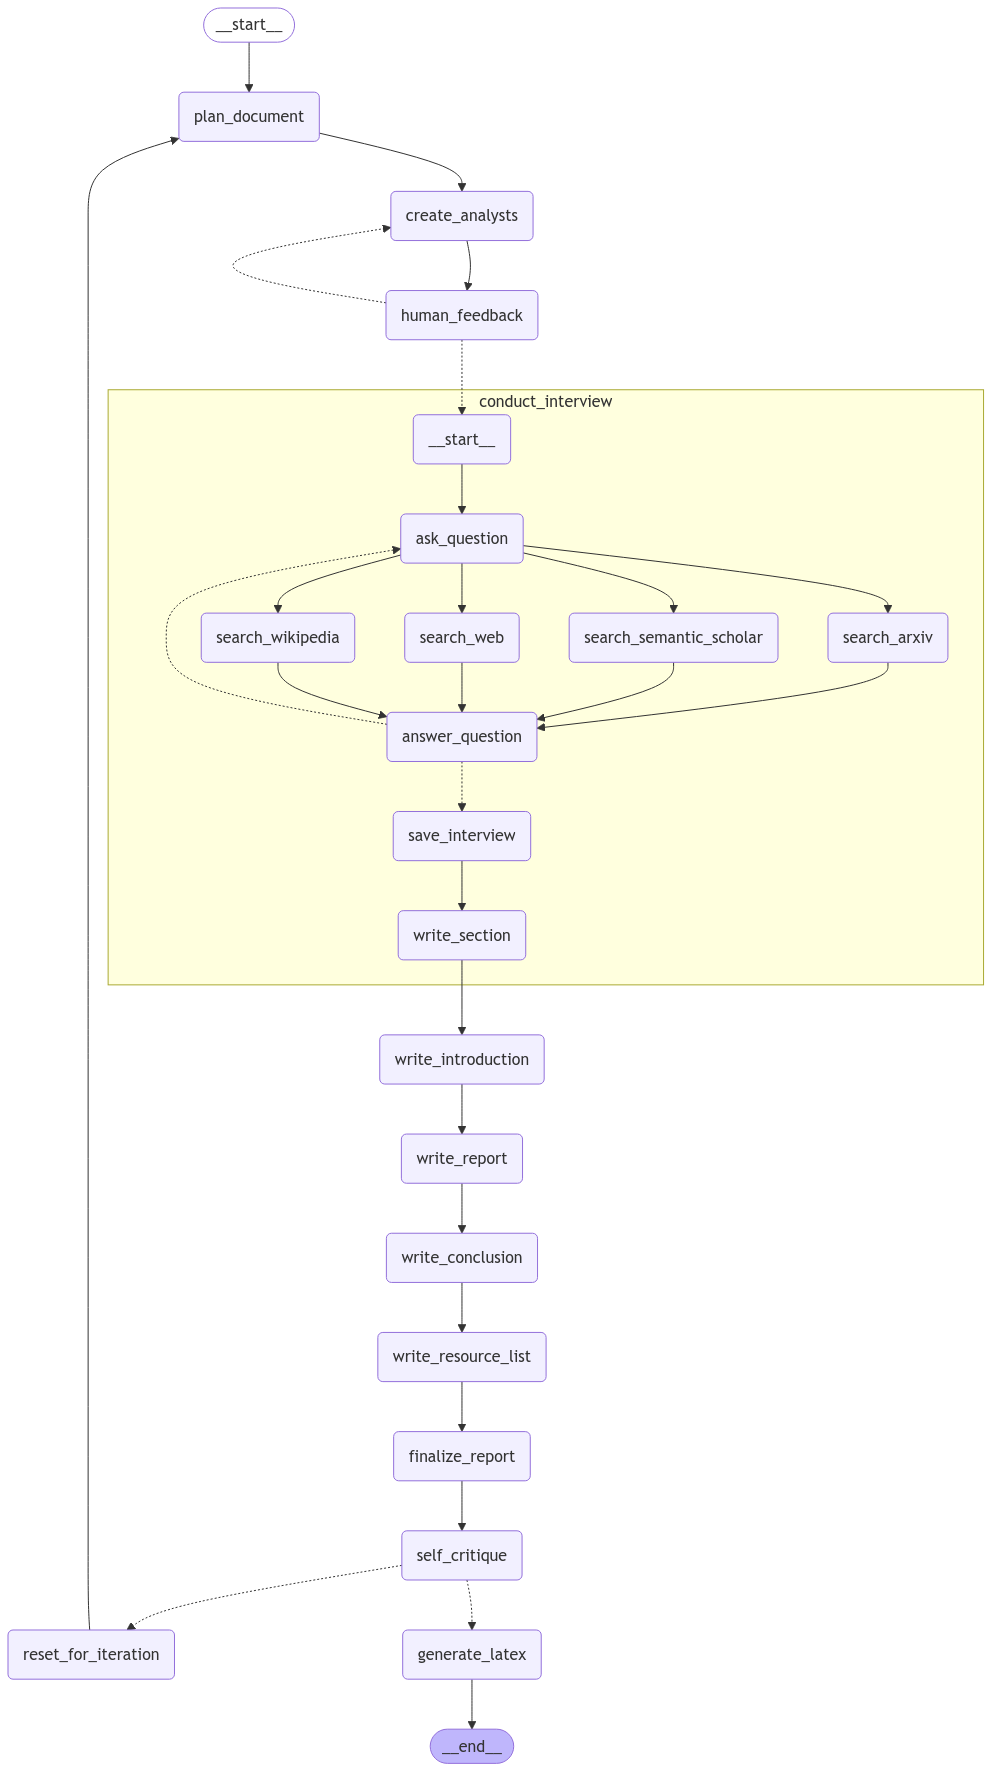
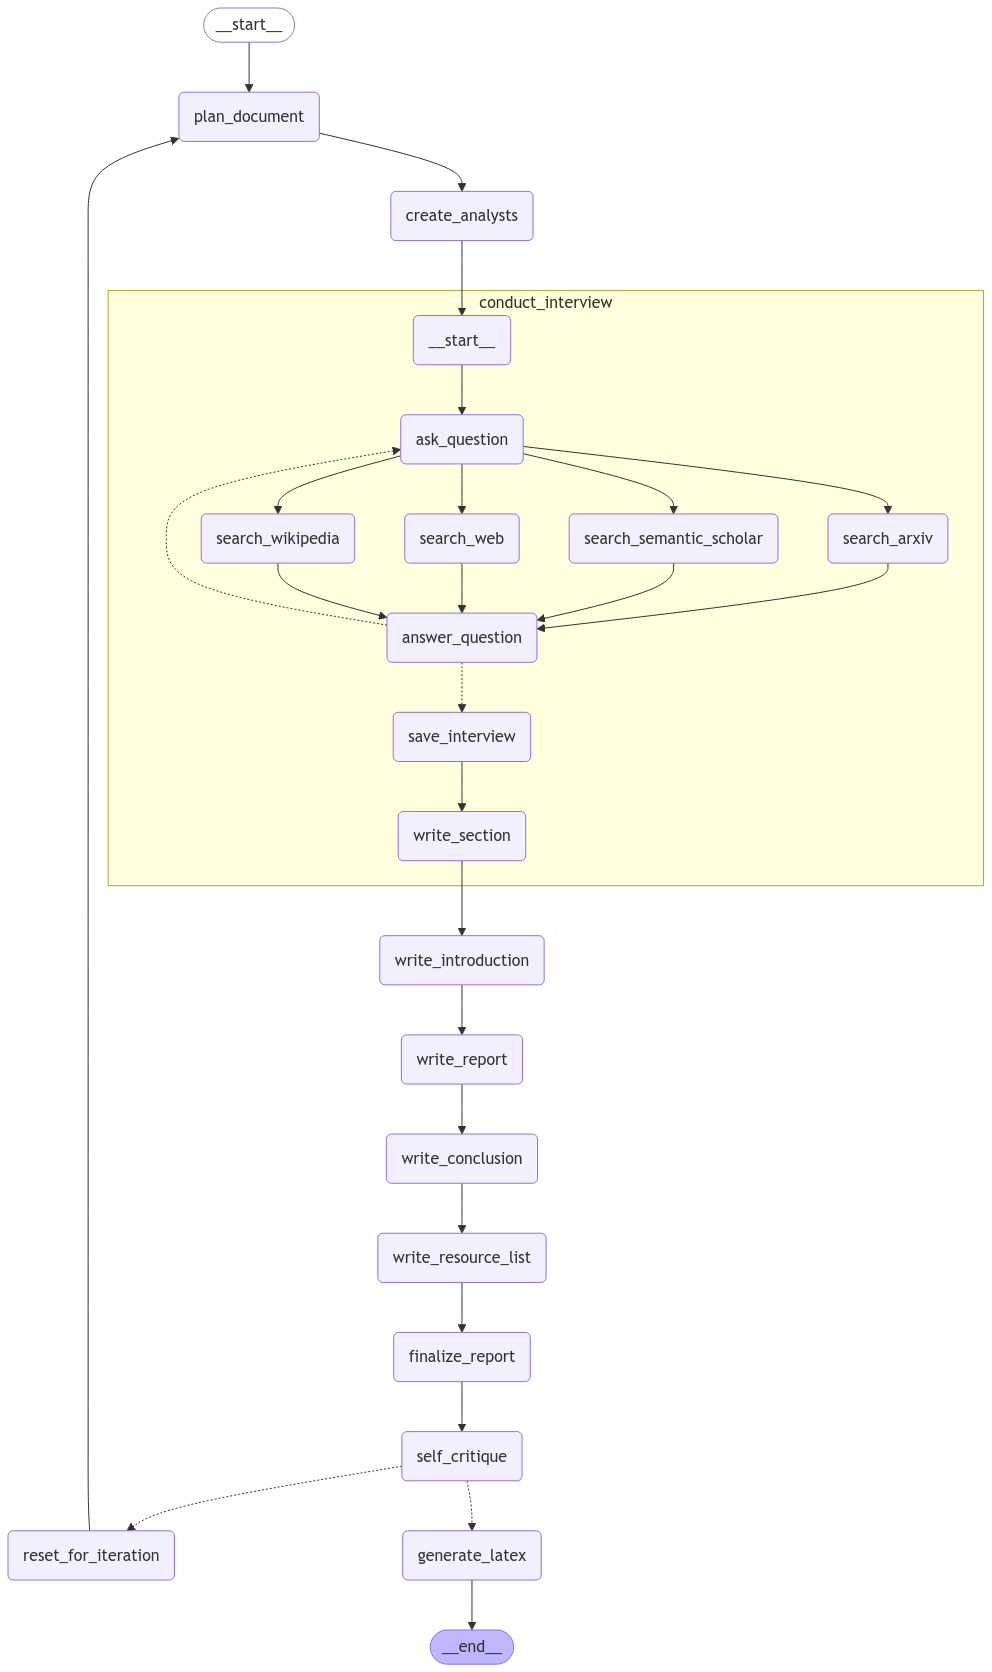
Fix all smart_print used without HumanLLMMonitor. add cache management for the searches. Withdraw the human feedback in the graph.

Changed region(s): [[0.0938, 0.0933, 1.0, 1.0], [0.0312, 0.9019, 0.1875, 0.9641], [0.1562, 0.0, 0.3125, 0.0933]]

diff --git a/demo.py b/demo.py
@@ -200,18 +200,18 @@ class Analyst(BaseModel):
     affiliation: str = Field(
         description="Primary affiliation of the analyst.",
     )
-    name: str = Field(
-        description="Name of the analyst."
-    )
+    # name: str = Field(
+    #     description="Name of the analyst."
+    # )
     role: str = Field(
-        description="Role of the analyst in the context of the topic.",
+        description="Role/expertise of the analyst in the context of the topic.",
     )
     description: str = Field(
         description="Description of the analyst focus, concerns, and motives.",
     )
     @property
     def persona(self) -> str:
-        return f"Name: {self.name}\nRole: {self.role}\nAffiliation: {self.affiliation}\nDescription: {self.description}\n"
+        return f"Role: {self.role}\nAffiliation: {self.affiliation}\nDescription: {self.description}\n"
 
 class Perspectives(BaseModel):
     analysts: List[Analyst] = Field(
@@ -238,7 +238,7 @@ def create_analysts(state: GenerateAnalystsState):
                 "  - 'FEEDBACK': any editorial feedback,\n"
                 "  - 'MAX_ANALYSTS': the maximum number of analysts to generate.\n\n"
                 "Review the topic and feedback, identify the top themes, and assign one analyst per theme. "
-                "Each analyst must have the following fields: name (string), role (string), affiliation (string), and description (string)."
+                "Each analyst must have the following fields: role (string), affiliation (string), and description (string)."
             )
     topic = state['topic']
     max_analysts = state['max_analysts']
@@ -270,7 +270,6 @@ def create_analysts(state: GenerateAnalystsState):
         else:
             generated_analysts = [
                 Analyst(
-                    name=f"Analyst {i+1}",
                     role=f"Research Specialist {i+1}",
                     affiliation="Research Institute",
                     description=f"Analyzing aspects of {topic}"
@@ -286,7 +285,6 @@ def create_analysts(state: GenerateAnalystsState):
         print(f"Error generating analysts: {e}")
         default_analysts = [
             Analyst(
-                name=f"Analyst {i+1}",
                 role=f"Research Specialist {i+1}",
                 affiliation="Research Institute",
                 description=f"Analyzing aspects of {topic}"
@@ -294,10 +292,10 @@ def create_analysts(state: GenerateAnalystsState):
         ]
         return {"analysts": default_analysts}
 
-def human_feedback(state: GenerateAnalystsState):
-    """No-op node that can be interrupted for human feedback."""
-    print("Human_feedback")
-    pass
+# def human_feedback(state: GenerateAnalystsState):
+#     """No-op node that can be interrupted for human feedback."""
+#     print("Human_feedback")
+#     pass
 
 def should_continue(state: GenerateAnalystsState):
     print("Should_continue")
@@ -337,30 +335,27 @@ def generate_question(state: InterviewState):
     messages = state["messages"]
     system_message = question_instructions.format(goals=analyst.persona)
     question_answer = llm_custom.invoke([SystemMessage(content=system_message)] + messages)
-    smart_print(message=question_answer.content if isinstance(question_answer, AIMessage) else question_answer, agent_name="Generate Question", message_type="NEW inference result recieved")
+    smart_print(message=question_answer.content if isinstance(question_answer, AIMessage) else question_answer, agent_name="Generate Question", message_type="NEW inference result recieved", column_id=0, column_max=1)
     return {"messages": [question_answer]}
 
-def search_web(state: InterviewState):
-    print("Search_web")
+
+@load_from_pickle
+@save_to_pickle
+def search_llm_query(search_instructions : SystemMessage, user_message : str):
+    return llm_custom.with_structured_output(SearchQuery).invoke([search_instructions] + user_message)
+
+@load_from_pickle
+@save_to_pickle
+def search_web_query_get(search_query):
     OPENALEX_API_URL = "https://api.openalex.org/works"
-    structured_llm = llm_custom.with_structured_output(SearchQuery)
-    if "search_instructions" not in state:
-        state["search_instructions"] = SystemMessage(content=(
-            "You will be given a conversation between an analyst and an expert. "
-            "Your goal is to generate a well-structured query for retrieval. "
-            "Analyze the conversation—especially the final question—and convert it into a search query."
-        ))
-    search_instructions = state["search_instructions"]
-    search_query = structured_llm.invoke([search_instructions] + state['messages'])
     params = {
-        "search": search_query.search_query,
+        "search": search_query.search_query,  # La chaîne de recherche générée par le LLM.
         "filter": "is_paratext:false",
         "sort": "relevance_score:desc",
         "per_page": 5
     }
     response = requests.get(OPENALEX_API_URL, params=params)
     search_docs = []
-    "Testing a research assistant framework in Toulon M2 Master's program: curriculum design, pedagogical strategies, diverse learning needs, collaboration between researchers and educators, student dynamics, dissemination of findings."
 
     if response.status_code == 200:
         data = response.json()
@@ -377,40 +372,32 @@ def search_web(state: InterviewState):
             })
     else:
         print(f"Error retrieving data from OpenAlex: {response.status_code}")
-    formatted_search_docs = "\n\n---\n\n".join(
-        [
-            f'<Document title="{doc["title"]}" href="{doc["url"]}">\nAuthors: {doc["authors"]}\n\nAbstract: {doc["abstract"]}\n</Document>'
-            for doc in search_docs
-        ]
-    )
-    smart_print(message=formatted_search_docs, agent_name="Search Web", message_type="NEW inference result recieved")
-    return {"context": [formatted_search_docs]}
 
-def search_arxiv(state: InterviewState):
-    print("Search_arxiv")
-    import xml.etree.ElementTree as ET
+    # Formatage des résultats pour affichage.
+    formatted_search_docs = "\n\n---\n\n".join([
+        '<Document title="' + doc["title"] + '" href="' + doc["url"] + '">\nAuthors:' + doc["authors"] + '\n\nAbstract:' + doc["abstract"] + '\n</Document>'
+        for doc in search_docs
+    ])
+    return formatted_search_docs
 
-    ARXIV_API_URL = "http://export.arxiv.org/api/query"
-
-    # On suppose que llm_custom, SearchQuery et SystemMessage sont déjà définis ailleurs dans le code.
-    structured_llm = llm_custom.with_structured_output(SearchQuery)
-
-    # Si aucune instruction de recherche n'est présente dans l'état, on en crée une par défaut.
+def search_web(state: InterviewState):
+    print("Search_web")
     if "search_instructions" not in state:
         state["search_instructions"] = SystemMessage(content=(
-            "You are given a research topic. Your task is to generate a concise and effective search query "
-            "optimized for the arXiv API. Make sure to include relevant keywords to retrieve the most pertinent scientific articles."
+            "You will be given a conversation between an analyst and an expert. "
+            "Your goal is to generate a well-structured query for retrieval. "
+            "Analyze the conversation—especially the final question—and convert it into a search query."
         ))
-    search_instructions = state["search_instructions"]
+    search_query = search_llm_query(state["search_instructions"], state["messages"])
+    formatted_search_docs = search_web_query_get(search_query)
+    smart_print(message=formatted_search_docs, agent_name="Search Web", message_type="NEW inference result recieved", column_id=0, column_max=1)
+    return {"context": [formatted_search_docs]}
 
-    # On utilise le topic présent dans l'état pour guider la génération de la requête de recherche.
-    # (Dans l'exemple search_web, on utilisait une conversation complète via state['messages'];
-    # ici, on se contente du topic.)
-    search_query = structured_llm.invoke([
-        search_instructions
-    ] + state["messages"])
-
-    # Préparation des paramètres pour l'API d'arXiv.
+@load_from_pickle
+@save_to_pickle
+def search_arxiv_query_get(search_query):
+    import xml.etree.ElementTree as ET
+    ARXIV_API_URL = "http://export.arxiv.org/api/query"
     params = {
         "search_query": search_query.search_query,  # La chaîne de recherche générée par le LLM.
         "max_results": 5
@@ -444,53 +431,50 @@ def search_arxiv(state: InterviewState):
 
     # Formatage des résultats pour affichage.
     formatted_search_docs = "\n\n---\n\n".join([
-        f'<Document title="{doc["title"]}" href="{doc["link"]}">\nAuthors: {doc["authors"]}\n\nAbstract: {doc["summary"]}\n</Document>'
+        '<Document title="' + doc["title"] + '" href="' + doc["link"] + '">\nAuthors:' + doc["authors"] + '\n\nAbstract:' + doc["summary"] + '\n</Document>'
         for doc in search_docs
     ])
+    return formatted_search_docs
 
-    smart_print(message=formatted_search_docs, agent_name="Search Arxiv", message_type="NEW inference result recieved")
+def search_arxiv(state: InterviewState):
+    print("Search_arxiv")
+
+    # On suppose que llm_custom, SearchQuery et SystemMessage sont déjà définis ailleurs dans le code.
+    if not 'search_instructions' in state:
+        state['search_instructions'] = SystemMessage(content=(
+            "You are given a research topic. Your task is to generate a concise and effective search query "
+            "optimized for the arXiv API. Make sure to include relevant keywords to retrieve the most pertinent scientific articles."
+        ))
+    search_query = search_llm_query(state['search_instructions'], state["messages"])
+    # Préparation des paramètres pour l'API d'arXiv.
+    formatted_search_docs = search_arxiv_query_get(search_query)
+
+    smart_print(message=formatted_search_docs, agent_name="Search Arxiv", message_type="NEW inference result recieved", column_id=0, column_max=1)
     return {"context": [formatted_search_docs]}
 
-def search_semantic_scholar(state: InterviewState):
-    print("Search_semantic_scholar")
+@load_from_pickle
+@save_to_pickle
+def search_semantic_scholar_query_get(search_query):
     SEMANTIC_SCHOLAR_API_URL = "https://api.semanticscholar.org/graph/v1/paper/search"
-    structured_llm = llm_custom.with_structured_output(SearchQuery)
-    
-    # Set default search instructions if not already present
-    if "search_instructions" not in state:
-        state["search_instructions"] = SystemMessage(content=(
-            "You are given a research topic. Your task is to generate a concise and effective search query "
-            "optimized for the Semantic Scholar API. Ensure that the query includes relevant keywords to retrieve the most pertinent scientific articles."
-        ))
-    search_instructions = state["search_instructions"]
-    
-    # Generate the search query using the conversation messages
-    search_query = structured_llm.invoke([search_instructions] + state["messages"])
-    
-    # Prepare API request parameters
     params = {
-        "query": search_query.search_query,
+        "query": search_query.search_query,  # La chaîne de recherche générée par le LLM.
         "limit": 5,
         "fields": "paperId,title,abstract,authors"
     }
-    
     response = requests.get(SEMANTIC_SCHOLAR_API_URL, params=params)
     search_docs = []
-    
+
     if response.status_code == 200:
         data = response.json()
-        # 'data' key holds the list of papers
         for paper in data.get("data", []):
             title = paper.get("title") or "Unknown Title"
             abstract = paper.get("abstract") or "No abstract available"
-            # Process authors list: each author is a dict with at least a "name" key
             authors_list = paper.get("authors", [])
             authors = ", ".join([author.get("name", "Unknown") for author in authors_list])
             if not authors:
                 authors = "Not Available"
             paper_id = paper.get("paperId")
             url = f"https://www.semanticscholar.org/paper/{paper_id}" if paper_id else "Not Available"
-            
             search_docs.append({
                 "title": title,
                 "authors": authors,
@@ -499,18 +483,40 @@ def search_semantic_scholar(state: InterviewState):
             })
     else:
         print(f"Error retrieving data from Semantic Scholar: {response.status_code}")
+
+    # Formatage des résultats pour affichage.
+    formatted_search_docs = "\n\n---\n\n".join([
+        '<Document title="' + doc["title"] + '" href="' + doc["url"] + '">\nAuthors:' + doc["authors"] + '\n\nAbstract:' + doc["abstract"] + '\n</Document>'
+        for doc in search_docs
+    ])
+    return formatted_search_docs
+
+def search_semantic_scholar(state: InterviewState):
+    print("Search_semantic_scholar")
+    # Set default search instructions if not already present
+    if "search_instructions" not in state:
+        state["search_instructions"] = SystemMessage(content=(
+            "You are given a research topic. Your task is to generate a concise and effective search query "
+            "optimized for the Semantic Scholar API. Ensure that the query includes relevant keywords to retrieve the most pertinent scientific articles."
+        ))    
+    # Generate the search query using the conversation messages
+    search_query = search_llm_query(state['search_instructions'], state["messages"])
     
-    # Format the retrieved documents for display
+    formatted_search_docs = search_semantic_scholar_query_get(search_query)
+    smart_print(message=formatted_search_docs, agent_name="Search Semantic Scholar", message_type="NEW inference result recieved", column_id=0, column_max=1)
+    return {"context": [formatted_search_docs]}
+
+@load_from_pickle
+@save_to_pickle
+def search_wikipedia_query_get(search_query):
+    search_docs = WikipediaLoader(query=search_query.search_query, load_max_docs=2).load()
     formatted_search_docs = "\n\n---\n\n".join(
         [
-            f'<Document title="{doc["title"]}" href="{doc["url"]}">\nAuthors: {doc["authors"]}\n\nAbstract: {doc["abstract"]}\n</Document>'
+            '<Document source="'+ doc.metadata.get("source", "Not Available") + ' page="' + doc.metadata.get("page", "Not Available") + '"/>\n' + doc.page_content + '\n</Document>'
             for doc in search_docs
         ]
     )
-    
-    smart_print(message=formatted_search_docs, agent_name="Search Semantic Scholar", message_type="NEW inference result recieved")
-    return {"context": [formatted_search_docs]}
-
+    return formatted_search_docs
 
 def search_wikipedia(state: InterviewState):
     print("Search_wikipedia")
@@ -520,17 +526,9 @@ def search_wikipedia(state: InterviewState):
             "Your goal is to generate a well-structured query for retrieval. "
             "Analyze the conversation and convert the final question into a search query."
         ))
-    search_instructions = state["search_instructions"]
-    structured_llm = llm_custom.with_structured_output(SearchQuery)
-    search_query = structured_llm.invoke([search_instructions] + state['messages'])
-    search_docs = WikipediaLoader(query=search_query.search_query, load_max_docs=2).load()
-    formatted_search_docs = "\n\n---\n\n".join(
-        [
-            f'<Document source="{doc.metadata.get("source", "Not Available")}" page="{doc.metadata.get("page", "Not Available")}"/>\n{doc.page_content}\n</Document>'
-            for doc in search_docs
-        ]
-    )
-    smart_print(message=formatted_search_docs, agent_name="Search Wikipedia", message_type="NEW inference result recieved")
+    search_query = search_llm_query(state['search_instructions'], state['messages'])
+    formatted_search_docs = search_wikipedia_query_get(search_query)
+    smart_print(message=formatted_search_docs, agent_name="Search Wikipedia", message_type="NEW inference result recieved", column_id=0, column_max=1)
     return {"context": [formatted_search_docs]}
 
 def generate_answer(state: InterviewState):
@@ -552,7 +550,7 @@ def generate_answer(state: InterviewState):
     context = state["context"]
     system_message = answer_instructions.format(goals=analyst.persona, context=context)
     answer_resp = llm_custom.invoke([SystemMessage(content=system_message)] + messages)
-    smart_print(message=answer_resp.content if isinstance(answer_resp, AIMessage) else answer_resp, agent_name="Generate Answer", message_type="NEW inference result recieved")
+    smart_print(message=answer_resp.content if isinstance(answer_resp, AIMessage) else answer_resp, agent_name="Generate Answer", message_type="NEW inference result recieved", column_id=0, column_max=1)
     # answer.name = "expert"
     return {"messages": [answer_resp]}
 
@@ -604,7 +602,7 @@ def write_section(state: InterviewState):
     else:
         section_final = sections.content if isinstance(sections, AIMessage) else sections
     
-    smart_print(message=section_final, agent_name="Write Section", message_type="NEW inference result recieved")
+    smart_print(message=section_final, agent_name="Write Section", message_type="NEW inference result recieved", column_id=0, column_max=1)
     return {"sections": [section_final]}
 
 ### -------------------------------
@@ -1040,7 +1038,7 @@ def multi_agent_research_generation_persist_at_the_end(title, topic, max_analyst
     builder = StateGraph(ResearchGraphState)
     builder.add_node("plan_document", plan_document)
     builder.add_node("create_analysts", create_analysts)
-    builder.add_node("human_feedback", human_feedback)
+    # builder.add_node("human_feedback", human_feedback)
     builder.add_node("conduct_interview", interview_graph)
     builder.add_node("write_report", write_report)
     builder.add_node("write_introduction", write_introduction)
@@ -1062,7 +1060,7 @@ def multi_agent_research_generation_persist_at_the_end(title, topic, max_analyst
     # [if iteration < max_iterations -> reset_for_iteration -> plan_document] else END.
     builder.add_edge(START, "plan_document")
     builder.add_edge("plan_document", "create_analysts")
-    builder.add_edge("create_analysts", "human_feedback")
+    # builder.add_edge("create_analysts", "human_feedback")
     # Use a conditional edge from human_feedback to either re-run analyst creation or start interviews.
     def initiate_all_interviews(state: ResearchGraphState):
       print("Initiate_all_interviews")
@@ -1074,7 +1072,8 @@ def multi_agent_research_generation_persist_at_the_end(title, topic, max_analyst
           return [Send("conduct_interview", {"analyst": analyst,
                                              "messages": [HumanMessage(content=f"So you said you were writing an article on {topic}?")]})
                   for analyst in state["analysts"]]
-    builder.add_conditional_edges("human_feedback", initiate_all_interviews, ["create_analysts", "conduct_interview"])
+    # builder.add_conditional_edges("human_feedback", initiate_all_interviews, ["create_analysts", "conduct_interview"])
+    builder.add_edge("create_analysts", "conduct_interview")
     # Modify to sequential edge after interviews to avoid infinite loop when using HumnaLLMMonitor as llm.
     builder.add_edge("conduct_interview", "write_introduction")
     builder.add_edge("write_introduction", "write_report")

diff --git a/utils/file_utils.py b/utils/file_utils.py
@@ -73,6 +73,8 @@ def save_to_pickle(func):
             return result
         filename = get_hashed_filename(func.__name__, *args, **kwargs)
         # update filename given pkl files are in pkl_cache folder
+        if not os.path.exists("pkl_cache"):
+            os.makedirs("pkl_cache")
         filename = os.path.join("pkl_cache", filename)
         with open(filename, 'wb') as file:
             pickle.dump(result, file)
